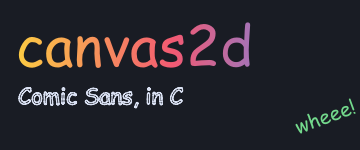
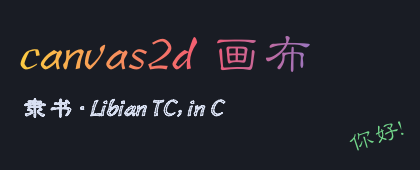
text: switch to Libian TC and decode UTF-8 (Latin + Chinese)
Swap the pinned face from Comic Sans MS to Libian TC -- a clerical-script
(隶书) handwritten font that carries both Latin and CJK, so the same fill_text
renders mixed scripts.  To reach the Chinese glyphs the shim now decodes UTF-8
(1-4 byte sequences) to code points and maps them to glyphs, composing a
surrogate pair for astral code points; the decoder stops at the NUL terminator
so it never over-reads (ASan-clean in debug).  Mapping stays 1:1 code point ->
glyph, so no shaping/ligatures/bidi yet.

test_text gains a Chinese case (3-byte code points -> glyphs, measures and
inks); the gallery panel headline/subtitle now mix Latin and Chinese in single
fill_text/stroke_text calls.  README/docs updated; the roadmap's "UTF-8 not yet"
item is retired in favor of the real remaining gap (complex shaping).

Changed region(s): [[0.0306, 0.1333, 0.7333, 0.4533], [0.0306, 0.56, 0.55, 0.72], [0.7944, 0.6667, 1.0, 0.9067]]

diff --git a/src/cnvs_font_ct.c b/src/cnvs_font_ct.c
@@ -14,6 +14,7 @@
 #include <CoreGraphics/CoreGraphics.h>
 #include <CoreText/CoreText.h>
 
+#include <stdint.h>
 #include <stdlib.h>
 
 struct cnvs_font {
@@ -87,13 +88,54 @@ static void emit(void *info, CGPathElement const *e) {
     }
 }
 
+// Decode one UTF-8 sequence at *p (NUL-terminated) and advance *p past it.
+// Malformed bytes decode as U+FFFD; the scan never reads past the terminator.
+static uint32_t utf8_next(unsigned char const **p) {
+    unsigned char const *s = *p;
+    uint32_t c = s[0];
+    if (c < 0x80) {
+        *p = s + 1;
+        return c;
+    }
+    int n;
+    uint32_t cp;
+    if ((c & 0xE0) == 0xC0) { n = 1; cp = c & 0x1F; }
+    else if ((c & 0xF0) == 0xE0) { n = 2; cp = c & 0x0F; }
+    else if ((c & 0xF8) == 0xF0) { n = 3; cp = c & 0x07; }
+    else { *p = s + 1; return 0xFFFD; }
+    for (int i = 1; i <= n; i++) {
+        if ((s[i] & 0xC0) != 0x80) {  // truncated or invalid (stops at the NUL)
+            *p = s + i;
+            return 0xFFFD;
+        }
+        cp = (cp << 6) | (s[i] & 0x3Fu);
+    }
+    *p = s + n + 1;
+    return cp;
+}
+
+// Map a Unicode code point to a glyph, composing a surrogate pair for astral
+// code points (CJK is in the BMP, so the single-unit path covers it).
+static CGGlyph glyph_for_cp(CTFontRef font, uint32_t cp) {
+    if (cp > 0xFFFF) {
+        cp -= 0x10000;
+        UniChar pair[2] = { (UniChar)(0xD800 + (cp >> 10)),
+                            (UniChar)(0xDC00 + (cp & 0x3FF)) };
+        CGGlyph g[2] = { 0, 0 };
+        CTFontGetGlyphsForCharacters(font, pair, g, 2);
+        return g[0];
+    }
+    UniChar uc = (UniChar)cp;
+    CGGlyph g = 0;
+    CTFontGetGlyphsForCharacters(font, &uc, &g, 1);
+    return g;
+}
+
 float cnvs_font_outline(cnvs_font *f, char const *text, float ox, float oy,
                         cnvs_mat to_device, float tol, cnvs_path *out) {
     float pen = 0.0f;
-    for (unsigned char const *s = (unsigned char const *)text; *s; s++) {
-        UniChar uc = *s;  // ASCII / Latin-1: one byte -> one BMP code unit
-        CGGlyph g = 0;
-        CTFontGetGlyphsForCharacters(f->font, &uc, &g, 1);
+    for (unsigned char const *s = (unsigned char const *)text; *s;) {
+        CGGlyph g = glyph_for_cp(f->font, utf8_next(&s));
 
         CGPathRef path = CTFontCreatePathForGlyph(f->font, g, NULL);  // NULL for blanks
         if (path) {
@@ -112,10 +154,8 @@ float cnvs_font_outline(cnvs_font *f, char const *text, float ox, float oy,
 
 float cnvs_font_advance(cnvs_font *f, char const *text) {
     float pen = 0.0f;
-    for (unsigned char const *s = (unsigned char const *)text; *s; s++) {
-        UniChar uc = *s;
-        CGGlyph g = 0;
-        CTFontGetGlyphsForCharacters(f->font, &uc, &g, 1);
+    for (unsigned char const *s = (unsigned char const *)text; *s;) {
+        CGGlyph g = glyph_for_cp(f->font, utf8_next(&s));
         CGSize adv = { 0.0, 0.0 };
         CTFontGetAdvancesForGlyphs(f->font, kCTFontOrientationHorizontal, &g, &adv, 1);
         pen += (float)adv.width;

diff --git a/examples/gallery.c b/examples/gallery.c
@@ -433,40 +433,41 @@ static void drawimage(void) {
     save(c, "gallery/drawimage.png");
 }
 
-// Text: Comic Sans glyph outlines from Core Text, rasterized by the same
-// analytic-coverage fill as everything else -- so they take gradients, strokes,
-// transforms, and alpha.  The glyphs arrive as ordinary device-space paths from
-// the one unchecked C shim (cnvs_font_ct.c); nothing else gives up checking.
+// Text: Libian TC (clerical-script 隶书) glyph outlines from Core Text, rasterized
+// by the same analytic-coverage fill as everything else -- so they take gradients,
+// strokes, transforms, and alpha, and one fill_text mixes Latin and Chinese (UTF-8).
+// The glyphs arrive as ordinary device-space paths from the unchecked C shim
+// (cnvs_font_ct.c); nothing else gives up checking.
 static void text(void) {
-    canvas *__single c = canvas_create(360, 150);
+    canvas *__single c = canvas_create(420, 170);
     if (!c) {
         return;
     }
     canvas_set_fill_rgba(c, 0.10f, 0.11f, 0.14f, 1.0f);
-    canvas_fill_rect(c, 0.0f, 0.0f, 360.0f, 150.0f);
+    canvas_fill_rect(c, 0.0f, 0.0f, 420.0f, 170.0f);
 
-    // Gradient-filled headline.
-    canvas_set_fill_linear_gradient(c, 16.0f, 0.0f, 330.0f, 0.0f);
+    // Gradient-filled headline: Latin + Chinese in a single fill_text.
+    canvas_set_fill_linear_gradient(c, 20.0f, 0.0f, 390.0f, 0.0f);
     canvas_add_fill_color_stop(c, 0.00f, 0.99f, 0.80f, 0.26f, 1.0f);
     canvas_add_fill_color_stop(c, 0.50f, 0.95f, 0.35f, 0.45f, 1.0f);
     canvas_add_fill_color_stop(c, 1.00f, 0.35f, 0.55f, 0.98f, 1.0f);
-    canvas_set_font_size(c, 56.0f);
-    canvas_fill_text(c, "canvas2d", 16.0f, 66.0f);
+    canvas_set_font_size(c, 52.0f);
+    canvas_fill_text(c, "canvas2d 画布", 20.0f, 70.0f);
 
-    // Stroked subtitle.
+    // Stroked subtitle, also mixing scripts.
     canvas_set_stroke_rgba(c, 0.85f, 0.88f, 0.95f, 1.0f);
-    canvas_set_line_width(c, 1.3f);
+    canvas_set_line_width(c, 1.2f);
     canvas_set_line_join(c, CANVAS_JOIN_ROUND);
-    canvas_set_font_size(c, 22.0f);
-    canvas_stroke_text(c, "Comic Sans, in C", 18.0f, 104.0f);
+    canvas_set_font_size(c, 26.0f);
+    canvas_stroke_text(c, "隶书 · Libian TC, in C", 22.0f, 116.0f);
 
     // Transformed (rotated) text shows the CTM applies to glyphs too.
     canvas_save(c);
-    canvas_translate(c, 298.0f, 134.0f);
-    canvas_rotate(c, -0.35f);
+    canvas_translate(c, 352.0f, 152.0f);
+    canvas_rotate(c, -0.32f);
     canvas_set_fill_rgba(c, 0.45f, 0.85f, 0.55f, 1.0f);
-    canvas_set_font_size(c, 20.0f);
-    canvas_fill_text(c, "wheee!", 0.0f, 0.0f);
+    canvas_set_font_size(c, 26.0f);
+    canvas_fill_text(c, "你好!", 0.0f, 0.0f);
     canvas_restore(c);
 
     save(c, "gallery/text.png");

diff --git a/include/canvas.h b/include/canvas.h
@@ -114,12 +114,12 @@ void canvas_draw_image_subrect(canvas *__single cv,
                                float sww, float shh, float dx, float dy,
                                float dw, float dh);
 
-// Text.  The typeface is fixed to Comic Sans MS (reproducible across machines);
-// size is user-space px (default 10).  fill_text/stroke_text lay out ASCII `text`
-// with its baseline origin at (x, y), advance +x, and paint the glyph outlines
-// exactly like fill()/stroke() -- transform, clip, gradient and global alpha all
-// apply.  measure_text returns the advance width in user px (Canvas
-// measureText().width).
+// Text.  The typeface is fixed to Libian TC -- a clerical-script (隶书) face, so
+// the same call renders Latin and Chinese.  Size is user-space px (default 10).
+// fill_text/stroke_text lay out `text` (UTF-8) with its baseline origin at (x, y),
+// advance +x, and paint the glyph outlines exactly like fill()/stroke() --
+// transform, clip, gradient and global alpha all apply.  measure_text returns the
+// advance width in user px (Canvas measureText().width).
 void canvas_set_font_size(canvas *__single cv, float px);
 float canvas_measure_text(canvas *__single cv, char const *__null_terminated text);
 void canvas_fill_text(canvas *__single cv, char const *__null_terminated text,

diff --git a/tests/test_text.c b/tests/test_text.c
@@ -54,6 +54,16 @@ int main(void) {
     long ink = ink_count(px, len, n, 128);
     CHECK(ink > 200);
 
+    // UTF-8: a Chinese string (3-byte code points) maps to glyphs, measures wider
+    // than empty, and renders ink -- Libian TC carries both scripts.
+    CHECK(canvas_measure_text(cv, "\xe4\xbd\xa0\xe5\xa5\xbd") > 1.0f);  // 你好
+    canvas_set_fill_rgba(cv, 1.0f, 1.0f, 1.0f, 1.0f);
+    canvas_fill_rect(cv, 0.0f, 0.0f, (float)w, (float)h);
+    canvas_set_fill_rgba(cv, 0.0f, 0.0f, 0.0f, 1.0f);
+    canvas_fill_text(cv, "\xe4\xbd\xa0\xe5\xa5\xbd\xe4\xb8\x96\xe7\x95\x8c", 10.0f, 55.0f);  // 你好世界
+    canvas_read_rgba(cv, px, len);
+    CHECK(ink_count(px, len, n, 128) > 200);
+
     // Empty string draws nothing.
     canvas_set_fill_rgba(cv, 1.0f, 1.0f, 1.0f, 1.0f);
     canvas_fill_rect(cv, 0.0f, 0.0f, (float)w, (float)h);

diff --git a/src/cnvs_font.h b/src/cnvs_font.h
@@ -15,11 +15,11 @@
 
 typedef struct cnvs_font cnvs_font;
 
-// Create a font for `name` (e.g. "Comic Sans MS") at `size_px`; NULL on failure.
+// Create a font for `name` (e.g. "Libian TC") at `size_px`; NULL on failure.
 cnvs_font *__single cnvs_font_create(char const *__null_terminated name, float size_px);
 void cnvs_font_destroy(cnvs_font *__single f);
 
-// Append the outlines of ASCII `text` to `out` as device-space subpaths: place
+// Append the outlines of `text` (UTF-8) to `out` as device-space subpaths: place
 // the baseline origin at user-space (ox, oy), advance +x, flip Core Text's y-up
 // glyph space to canvas y-down, map user->device with `to_device`, and flatten
 // curves at `tol` device px.  Returns the advance width in user px.
@@ -27,5 +27,5 @@ float cnvs_font_outline(cnvs_font *__single f, char const *__null_terminated tex
                         float ox, float oy, cnvs_mat to_device, float tol,
                         cnvs_path *__single out);
 
-// Advance width of `text` in user px (Canvas measureText().width).
+// Advance width of `text` (UTF-8) in user px (Canvas measureText().width).
 float cnvs_font_advance(cnvs_font *__single f, char const *__null_terminated text);

diff --git a/src/canvas.c b/src/canvas.c
@@ -748,7 +748,7 @@ void canvas_stroke(canvas *__single cv) {
 static cnvs_font *__single ensure_font(canvas *__single cv) {
     if (!cv->font || fabsf(cv->font_built_size - cv->cur.font_size) > 1e-6f) {
         cnvs_font_destroy(cv->font);
-        cv->font = cnvs_font_create("Comic Sans MS", cv->cur.font_size);
+        cv->font = cnvs_font_create("Libian TC", cv->cur.font_size);
         cv->font_built_size = cv->cur.font_size;
     }
     return cv->font;

diff --git a/README.md b/README.md
@@ -67,9 +67,10 @@ and scaled + rotated (AA quad edges from the coverage rasterizer):
 
 ![imagedata](gallery/imagedata.png)
 
-Text — `fillText`/`strokeText` in Comic Sans (glyph outlines from Core Text),
-rasterized by the same analytic-coverage fill as everything else, so they take a
-gradient fill, a stroke, and the transform (the rotated *wheee!*):
+Text — `fillText`/`strokeText` in Libian TC (隶书, a clerical-script face), glyph
+outlines from Core Text, rasterized by the same analytic-coverage fill as
+everything else, so they take a gradient fill, a stroke, and the transform — and
+one `fill_text` mixes Latin and Chinese (UTF-8):
 
 ![text](gallery/text.png)
 
@@ -164,7 +165,7 @@ canvas_begin_path / move_to / line_to / rect / quadratic_curve_to /
 canvas_fill / canvas_stroke / canvas_clip
 canvas_get_image_data / put_image_data / read_rgba / write_png
 canvas_draw_image / draw_image_scaled / draw_image_subrect   // RGBA8 source
-canvas_set_font_size / measure_text / fill_text / stroke_text  // Comic Sans
+canvas_set_font_size / measure_text / fill_text / stroke_text  // Libian TC, UTF-8
 canvas_destroy(cv);
 ```
 
@@ -184,7 +185,7 @@ Coordinates are pixels, origin top-left, +y down — matching the web platform.
 | Gradients — linear + radial, fills *and* strokes, multi-stop | ✅ exact per-pixel |
 | Anti-aliasing | ✅ analytic coverage, both axes (fills, strokes, clips) |
 | `drawImage` — RGBA8 source, bilinear, transform/clip/alpha-aware | ✅ |
-| Text — `fillText`/`strokeText`, Comic Sans, gradient/stroke/transform-aware | ✅ via Core Text shim |
+| Text — `fillText`/`strokeText`, Libian TC, Latin + Chinese (UTF-8), gradient/stroke/transform-aware | ✅ via Core Text shim |
 | Batched compositor submission | ✅ consecutive ops share one command buffer |
 
 ## Warning policy
@@ -238,9 +239,9 @@ hottest pure-C kernels, one command to re-measure.
 The capability table above is the current state. What's left and what we
 deliberately won't do:
 
-- **Not yet:** UTF-8 text (only ASCII/Latin-1 is mapped today), text alignment /
-  baselines beyond the default, and a glyph cache (each `fill_text` re-fetches
-  outlines).
+- **Not yet:** complex text shaping (we map code point → glyph 1:1, so no
+  ligatures, contextual forms, or bidi), text alignment / baselines beyond the
+  default, and a glyph cache (each `fill_text` re-fetches outlines).
 - **Rejected — forcing `-fbounds-safety` onto the two system-framework shims.**
   The Metal one *can't* take the flag (it's C-only, and ARC/Objective-C is
   required to drive Metal). The Core Text one *could*, but its headers carry no

diff --git a/docs/bounds-safety.md b/docs/bounds-safety.md
@@ -346,8 +346,9 @@ nothing.
 
 ## Aspirations
 
-- Richer text — UTF-8 (only ASCII/Latin-1 maps today), a glyph cache (outlines
-  are re-fetched per `fill_text`), and text alignment/baselines beyond the default.
+- Richer text — complex shaping (we map code point → glyph 1:1, so no ligatures,
+  contextual forms, or bidi), a glyph cache (outlines are re-fetched per
+  `fill_text`), and text alignment/baselines beyond the default.
 
 ## Rules of thumb (the cheat-sheet we wish we'd had)
 